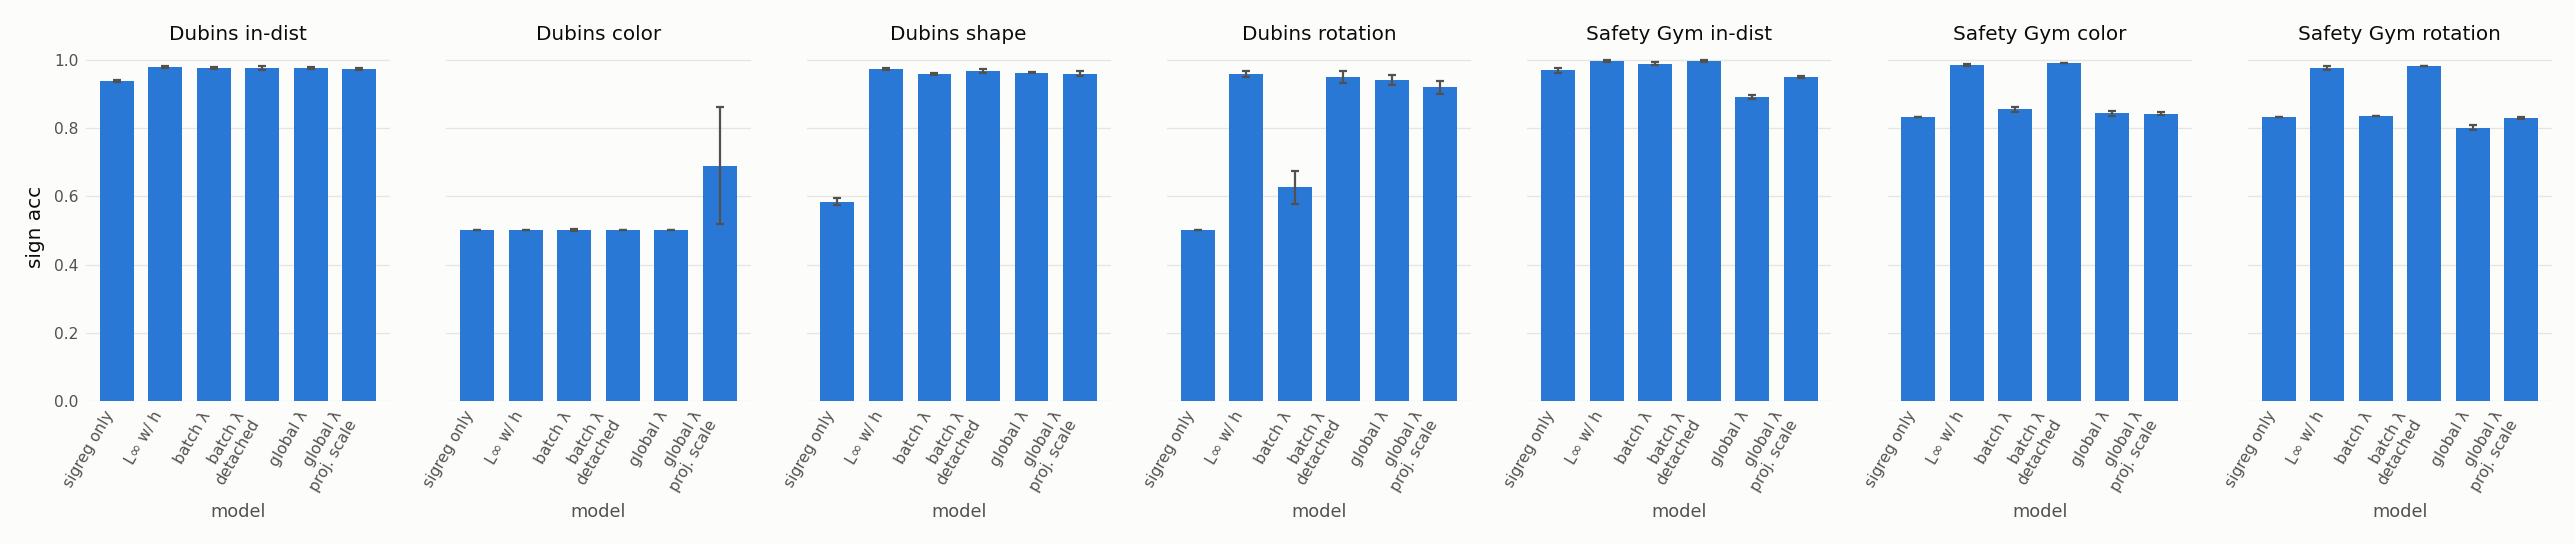
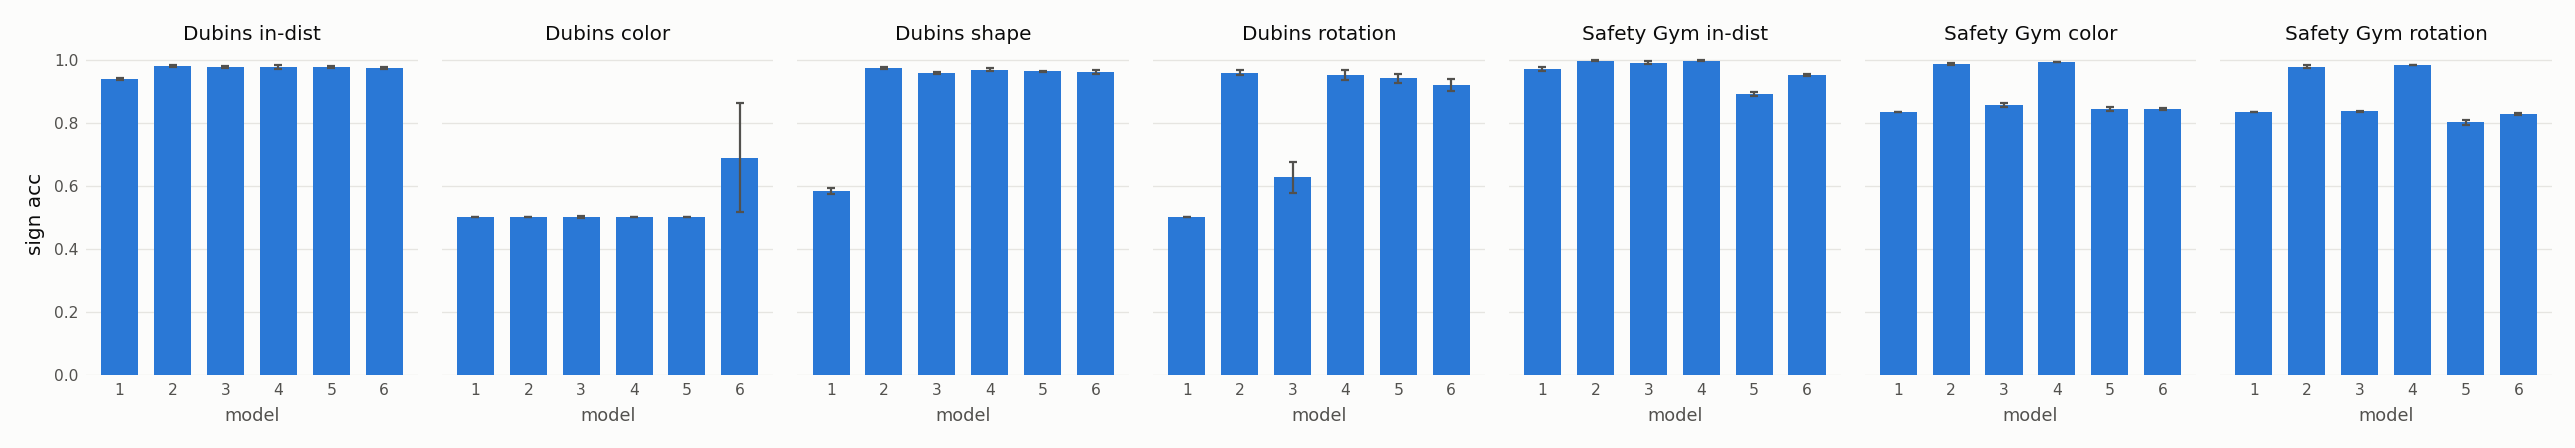
λ figures: numbered x-axis (key printed separately)

diff --git a/figs/plot_lambda_tables.py b/figs/plot_lambda_tables.py
@@ -26,7 +26,7 @@ def num(c):
     m = re.match(r"([0-9.]+)(?: ± ([0-9.]+))?", c); return float(m.group(1)), float(m.group(2) or 0)
 def plot(hdr, rows, ylabel, path, chance=None):
     cols = hdr[1:]; n = len(cols)
-    fig, axes = plt.subplots(1, n, figsize=(2.3 * n, 3.4), sharey=True, facecolor=SURF)
+    fig, axes = plt.subplots(1, n, figsize=(2.3 * n, 2.8), sharey=True, facecolor=SURF)
     names = [short(r[0]) for r in rows]
     for k, ax in enumerate(axes):
         v = [num(r[k + 1]) for r in rows]
@@ -35,13 +35,14 @@ def plot(hdr, rows, ylabel, path, chance=None):
                error_kw=dict(ecolor=INK2, elinewidth=1, capsize=2))
         if chance is not None: ax.axhline(chance, color=INK2, lw=0.8, ls=(0, (3, 3)))
         ax.set_title(cols[k], fontsize=9, color=INK)
-        ax.set_xticks(range(len(v))); ax.set_xticklabels(names, rotation=60, ha="right", fontsize=7, color=INK2)
+        ax.set_xticks(range(len(v))); ax.set_xticklabels([str(i + 1) for i in range(len(v))], fontsize=8, color=INK2)
         ax.set_ylim(0, 1.02); ax.tick_params(colors=INK2, labelsize=7, length=0)
         ax.grid(axis="y", color="#e6e5e1", lw=0.6); ax.set_axisbelow(True)
         for sp in ax.spines.values(): sp.set_visible(False)
         ax.set_xlabel("model", fontsize=8, color=INK2)
     axes[0].set_ylabel(ylabel, fontsize=9, color=INK)
     fig.tight_layout(); fig.savefig(path, dpi=160, facecolor=SURF); print("wrote", path)
+    for i, nm in enumerate(names): print(f"  {i + 1} = {nm.replace(chr(10), ' ')}")
 md = open(sys.argv[1]).read(); (h1, r1), (h2, r2) = tables(md)[:2]
 plot(h1, r1, "AUC", "figs/lambda_auc.png")
 plot(h2, r2, "sign acc", "figs/lambda_sign_acc.png")
